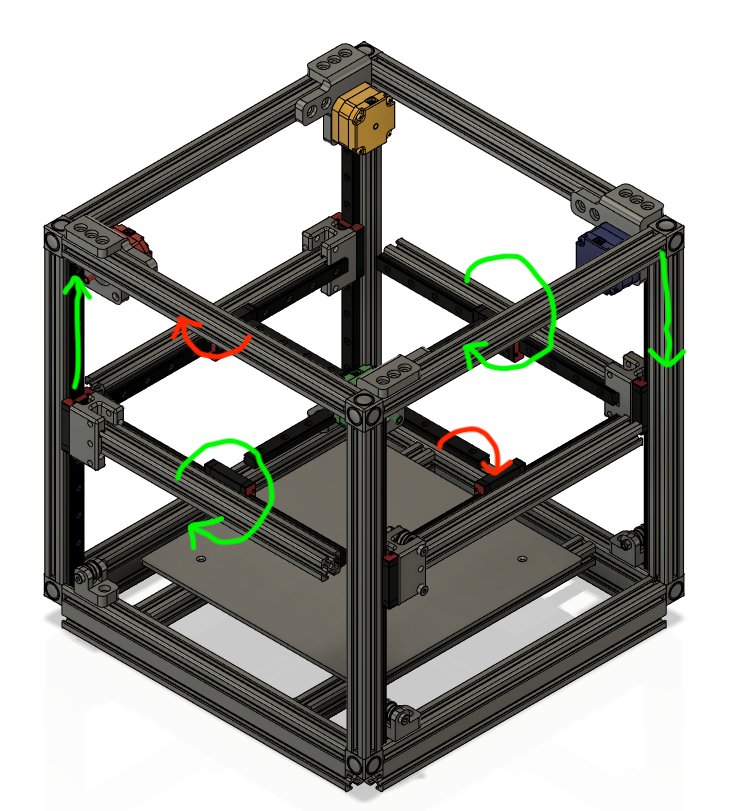
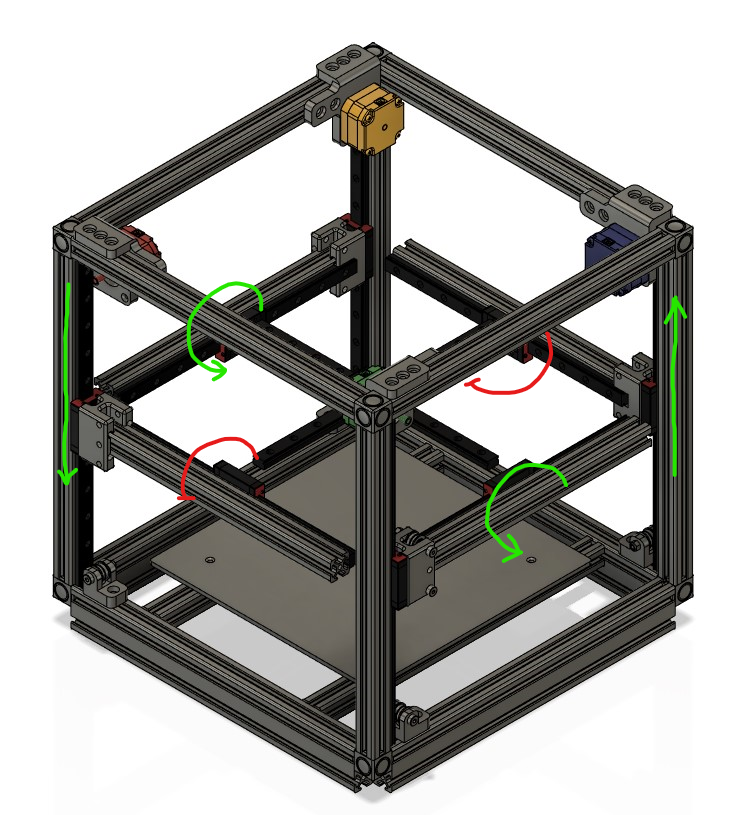
Update torque cancellation

Changed region(s): [[0.0602, 0.0308, 0.933, 0.9864], [0.6019, 0.7707, 0.6621, 0.8015]]

diff --git a/README.md b/README.md
@@ -46,6 +46,8 @@ The result is that the system provides differential control of vertical and hori
 
 ### Torque Cancellation
 
+Net vertical motion results in torques that are balanced and cancelled in a novel way, as follows:
+
 Because the half-units have mirrored belting in their horizontal axis, and because the differential actuation cancels their horizontal forces across the frame, this results in a net torque around the vertical axis from that pair of half-units.
 
 ![horiztorque](HorizontalTorque.png)
@@ -54,7 +56,7 @@ The direction of the net torque depends on which side of the horizontal belt the
 
 ![horiztorquecancel](HorizontalTorqueCancel.png)
 
-Net horizontal motion results in cancellation across opposite pairs of vertical carriages, which results in a torque around the horizontal axes. This torque is applied through the cross-gantry pieces, and since their carriages are rigid attachment points, net torque is eliminated.
+Horizontal motion in one axis operates via cancellation across opposite pairs of vertical carriages, which results in a torque around the other horizontal axis. This torque is applied through the cross-gantry pieces, and since their carriages are rigid attachment points, and belt loops provide good static tension, net torque is significantly reduced.
 
 ![verticaltorquecancel](VerticalTorqueCancel.png)
 
